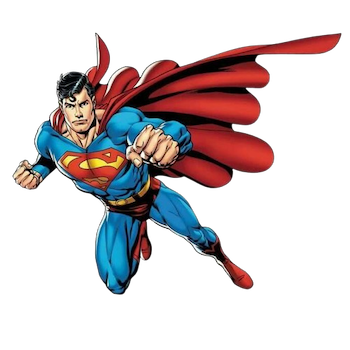
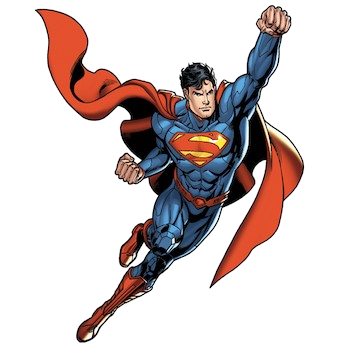
polish flip card

diff --git a/app/components/ContestResult.tsx b/app/components/ContestResult.tsx
@@ -53,8 +53,25 @@ export default function ContestResult({
     }
   };
 
+  const getHeroName = (score: number) => {
+    if (score >= 0 && score <= 1) {
+      return "HULK";
+    } else if (score >= 2 && score <= 3) {
+      return "WOLVERINE";
+    } else if (score >= 4 && score <= 5) {
+      return "SPIDER-MAN";
+    } else if (score >= 6 && score <= 7) {
+      return "WONDER WOMAN";
+    } else if (score >= 8 && score <= 9) {
+      return "BATMAN";
+    } else {
+      return "SUPERMAN";
+    }
+  };
+
   const heroImage = getHeroImage(score);
   const heroLogo = getHeroLogo(score);
+  const heroName = getHeroName(score);
 
   const handleClickCard = () => {
     setIsBackCard((prev) => !prev);
@@ -138,24 +155,27 @@ export default function ContestResult({
           isBackCard ? "flipped" : ""
         }`}
       >
-        <div className="flip-card-inner w-64 h-64 mb-6">
+        <div className="flip-card-inner w-[18rem] h-[18rem] mb-6">
           <div
-            className={`flip-card-back hero border-2 rounded-lg border-gray-800 p-3 text-[20px] flex items-center justify-center ${
+            className={`flip-card-back hero border-2 rounded-lg border-yellow-900 p-3 text-[20px] flex items-center justify-center ${
               isBackCard ? "" : ""
             }`}
             onClick={handleClickCard}
           >
-            <span className="flex items-center align-middle">
+            <span className="flex flex-col items-center gap-2">
+              <p className="text-center text-black text-4xl font-bolder mt-4">
+                {heroName}
+              </p>
               <Image
                 src={heroLogo}
                 alt="Superhero-Logo"
-                className="w-36 h-36"
+                className="w-[13rem] h-[13rem]"
               />
             </span>
           </div>
 
           <div
-            className={`flip-card-front hero border-2 rounded-lg border-gray-800 w-48 h-48 flex ${
+            className={`flip-card-front hero border-2 rounded-lg border-yellow-900 flex justify-center items-center ${
               isBackCard ? "" : ""
             }`}
             onClick={handleClickCard}
@@ -163,7 +183,7 @@ export default function ContestResult({
             <Image
               src={heroImage}
               alt="Superhero-Img"
-              className="items-center h-auto w-auto"
+              className="items-center w-[16rem] h-[16rem]"
             />
           </div>
         </div>

diff --git a/app/globals.css b/app/globals.css
@@ -17,6 +17,14 @@
   font-display: swap;
 }
 
+@font-face {
+  font-family: 'Flashrogers';
+  src: url('../public/fonts/Flashrogers.ttf') format('woff');
+  font-weight: normal;
+  font-style: normal;
+  font-display: swap;
+}
+
 @keyframes fadeIn {
   0% {
     opacity: 0;
@@ -124,15 +132,22 @@ body {
 .flip-card-front,
 .flip-card-back {
   position: absolute;
+  font-family: "Flashrogers";
   width: 100%;
   height: 100%;
   backface-visibility: hidden;
-  background: radial-gradient(circle, rgba(255, 255, 255, 1) 23%, rgba(212, 216, 213, 1) 73%);
 }
 
 .flip-card-back {
   background-size: 100%;
   transform: rotateY(180deg);
+  background: rgb(224, 224, 224);
+  background: linear-gradient(323deg, rgba(224, 224, 224, 1) 23%, rgba(255, 255, 255, 1) 53%, rgba(224, 224, 224, 1) 82%);
+}
+
+.flip-card-front {
+  background: rgb(255, 239, 214);
+  background: linear-gradient(323deg, rgba(255, 239, 214, 1) 23%, rgba(255, 255, 255, 1) 53%, rgba(224, 224, 224, 1) 82%);
 }
 
 @keyframes maskAnimation {
